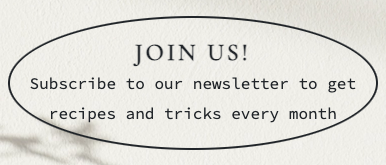
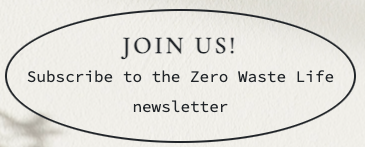
Compile signup and confirmation page and footer sections and add screenshots to README file

diff --git a/signup.html b/signup.html
@@ -42,7 +42,7 @@
                     <div id="hook-outer">
                         <div id="hook-text">
                             <h2>Join us!</h2>
-                            <p>Subscribe to our newsletter to get <br> recipes and tricks every month
+                            <p>Subscribe to the Zero Waste Life<br>newsletter
                             </p>
                         </div>
                     </div>
@@ -72,7 +72,7 @@
                             placeholder="">
                     </div>
                     <div>
-                        <input class="submit-button" type="submit" value="Submit!">
+                        <input class="submit-button" type="submit" value="Submit">
                     </div>
                 </form>
             </section>

diff --git a/confirmation.html b/confirmation.html
@@ -7,7 +7,7 @@
     <meta name="viewport" content="width=device-width, initial-scale=1.0">
     <meta name="description" content="Zero waste life hacks to fight food waste and live more sustainably">
     <meta name="keywords" content="zero waste tips, zero waste recipes, zero waste cookbook">
-    <meta http-equiv="refresh" content="10; url=index.html">
+    <meta http-equiv="refresh" content="15; url=index.html">
 
     <link rel="icon" href="assets/images/favicon.png">
     <link rel="stylesheet" href="assets/css/style.css">

diff --git a/README.md b/README.md
@@ -98,7 +98,9 @@ The body of the recipe page is horizontally divided into three parts: the ingred
 
 ![Screenshot of the recipe page](/assets/images/images-readme/recipe-page.png)
 
-Once again on the right, below the menu we can find a bubble with an engaging call to action, inviting users to try the recipe. ![Screenshot of the recipe bubble](/assets/images/images-readme/recipe-bubble.png)
+Once again on the right, below the menu we can find a bubble with an engaging call to action, inviting users to try the recipe.
+
+![Screenshot of the recipe bubble](/assets/images/images-readme/recipe-bubble.png)
 
 In a future iteration, this section could be expanded to host more recipes.
 
@@ -107,10 +109,33 @@ The Compost page is where Users can watch a video about composting and learn mor
 The video is relatively short (around 3 minutes) but with clear and simple instructions on how to get started with composting at home. In keeping with the essential ethos of the website, the video was not intended to provide a fully comprehensive guide to composting, rather to captivate the users in a fun and engaging way, based on the assumption that the vast majority of our users have never tried composting at all.
 
 ### Sign Up Page
-### Thanks Message
+In the Sign Up page users find a form they are invited to fill in with their details as well as the food they tend to waste the most. The first name field is set to autofocus, to improve user's experience. The form was created for educational purposes only and once the Submit button is clicked, users are simply directed to the confirmation page, where a thank you message is displayed. This was achieved by adding the path Confirmation.html to the form action.
+
+![Screenshot of the sign up form](/assets/images/images-readme/signup-form.png)
+
+For consistency, also on this page a bubble message is displayed, once again inviting the users to take actions: in this case to subscribe to the Zero Waste Life newsletter.
+
+![Screenshot of the sign up bubble](/assets/images/images-readme/signup-bubble.png)
+### Confirmation Page
+Users land on this page after submitting their details in the Sign Up page. The thank you message sets the expectations regarding the content and frequency of the newsletter: users can expect to receive on a monthly basis a new recipe and more tips and tricks to implement in their life.
+The last line informs the users that they will be soon redirected to the Homepage. 
+To learn how to implement this feature, I researched the topic online and followed the instructions found on [HubSpot](https://blog.hubspot.com/website/html-redirect).
+
+![Screenshot of the confirmation message](/assets/images/images-readme/confirmation-message.png)
+
+Once again, for consistency, another bubble message is displayed, this time congratulating the users on signing up to the newsletter.
+
+![Screenshot of the confirmation bubble](/assets/images/images-readme/confirmation-bubble.png)
+
 ### Footer
+Links to the main social media platforms can be found at the bottom of each page. All the links are set to open in a separate tab.
+Below the social media row, a line was added with the student's name. By clicking on it, the hyperlink opens the student's GitHub account in a separate tab.
+
+![Screenshot of the footer](/assets/images/images-readme/footer.png)
 
 ## Features to implement
+Expand the Recipe section to include more recipes and a photo gallery.
+Create dedicated pages with tips and tricks to implement in other areas of life, that are not related to food, such as clothing, packaging and household maintenance.
 
 # Testing
 
@@ -120,7 +145,16 @@ The video is relatively short (around 3 minutes) but with clear and simple instr
 
 # Technologies Used
 ## Main Languages
+HTML5
+CSS3
 ## Frameworks, Libraries & Programs
+Google Fonts: for the font families: Source Code Pro, Cormorant Garamond. San-serif was used as a default font.
+Font Awesome: to add icons to the Tips & Tricks list as well as the social media links in the footer element.
+GitPod: to create the html files and styling sheet before pushing the project to Github.
+GitHub: to store the repository for submission.
+Balsamiq: used to create mockups of the project prior to starting.
+Am I Responsive? - to ensure the project looked good across all devices.
+Favicon: to generate the image for the icon in the tab bar.
 
 # Deployment
 
